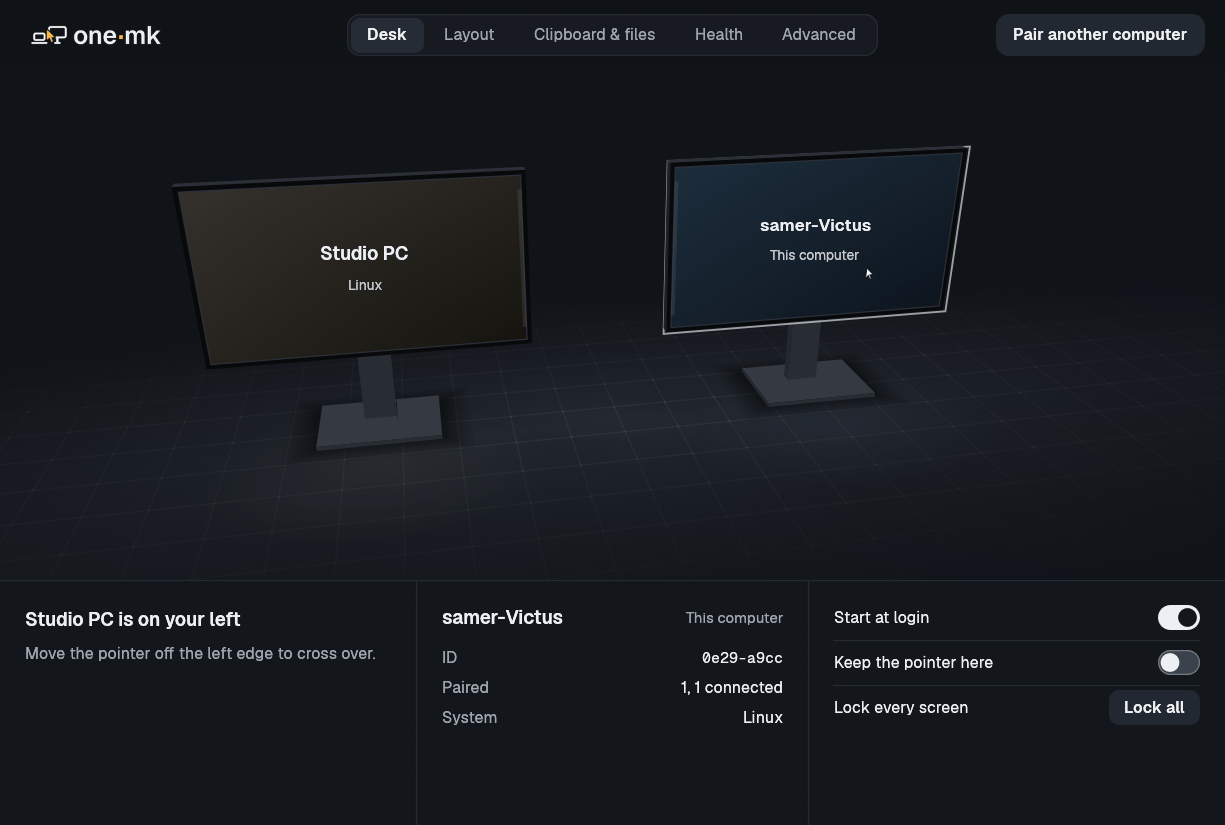
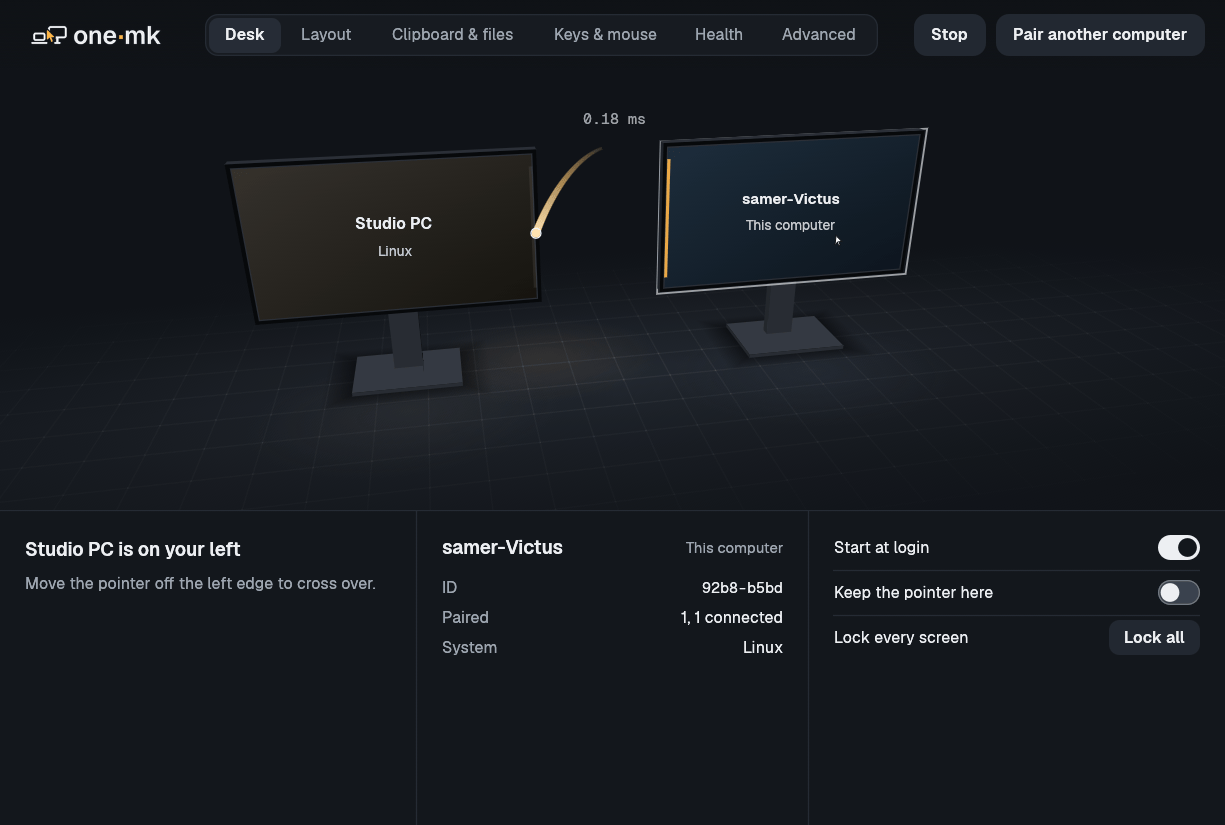
Document the latency graph and add its states to the screenshot script
README (window, status, troubleshooting), the plan row and notes, the design
review (what was found by looking at the shots and what was fixed), and
shots 70 to 82: live on two daemons, smooth, stalls, loss, slow, offline,
measuring, narrow, high density, Health (also narrow and with long names)
and a daemon from before the graph. The Desk shots re-rendered for the
taller Desk panel.

diff --git a/README.md b/README.md
@@ -142,7 +142,7 @@ See [invitation security and protocol](docs/PAIRING-INVITE.md).
 
 | Command | What it does |
 |---|---|
-| `one-mk status` | Is it running? Who is paired, online, where, and who controls whom |
+| `one-mk status` | Is it running? Who is paired, online (with `rtt 4 ms`: how long an answer takes), where, and who controls whom |
 | `one-mk takeback` | Take this computer back from the one controlling it |
 | `one-mk switch <pc\|here\|next>` | Move the mouse and keyboard to another computer without crossing an edge (`here`: back to this one) |
 | `one-mk lock-pointer on\|off\|toggle` | Keep the pointer on this computer: edges lead nowhere |
@@ -678,6 +678,17 @@ Open it from the tray ("Open one·mk…", or a left click on Linux) or run
 - drop files or folders onto a computer to send them;
 - see how fast the connection is (measured, not estimated: click a computer
   to measure again);
+- watch the connection to each computer live: a small graph of the last two
+  minutes under the selected computer on the Desk tab, and one line per
+  computer on Health. It shows the time an answer takes now, the lowest,
+  average and highest, and says **Smooth**, **Some stalls** (more than 1 in 20
+  readings over 40 ms, or any lost packet) or **Slow** (more than 1 in 20 over
+  100 ms, or 8 lost packets); amber means it is worth a look, and the word
+  says the same without colour. An offline computer says "offline" and has no graph. The
+  numbers come free from the connection itself: one-mk sends nothing extra
+  and runs no timer for it. The window asks once a second, only while a
+  graph is on screen (not on other tabs, minimised or closed), and keeps
+  120 readings per computer in memory, nothing on disk;
 - move the mouse and keyboard to a computer (**Switch to it**), send it this
   clipboard or get its clipboard, keep the pointer here and lock every
   screen;
@@ -707,7 +718,8 @@ Open it from the tray ("Open one·mk…", or a left click on Linux) or run
 - **Health:** the results of `one-mk doctor` (run when the page opens and on
   **Recheck**), each with its fix and a button to copy the command (or, for
   starting and pairing, the window's own button), plus what one-mk says
-  right now (for example a permission still to approve);
+  right now (for example a permission still to approve) and the live
+  connection to each computer;
 - **Advanced:** settings most people never change: edge rules (not crossing
   near corners, waiting at the edge, a key to hold, staying in fullscreen
   windows), keeping controlled computers awake, sleep and lock sync, gaming
@@ -795,8 +807,9 @@ one-mk bench --connect 192.168.1.20:24901   # on machine A
 
 Start with `one-mk doctor`. It checks that one-mk is running and paired,
 the port, discovery, the firewall, the desktop permission (Linux), the
-keyboard shortcuts, the pointer drawn on a computer with no mouse and the
-network, and prints a plain fix for each problem.
+keyboard shortcuts, the pointer drawn on a computer with no mouse, the
+network and how fast each connected computer answers, and prints a plain fix
+for each problem.
 It only reads: it never changes your firewall or settings, needs no root,
 and exits with status 1 if something failed.
 
@@ -832,6 +845,13 @@ and exits with status 1 if something failed.
 - **macOS.** Allow one-mk under System Settings > Privacy & Security >
   Accessibility and Input Monitoring, then start it again. (Not yet tested on
   real hardware.)
+- **The mouse stutters or lags on another computer.** Look at the graph on
+  the window's Desk or Health tab, or run `one-mk status` (`rtt 4 ms` per
+  connected computer) and `one-mk doctor` ("Connection quality"). Under about
+  40 ms is smooth. Higher, or **Some stalls** with lost packets, is the network
+  between the two computers, usually Wi-Fi: move closer to the router, use the
+  5 GHz band or a cable, and pause big downloads. `one-mk bench --connect`
+  measures the pointer's whole path.
 - **A paired computer is on the wrong side.** `one-mk layout "<name>" <side>`.
 - **The pointer won't cross part of an edge.** With an offset, only where
   the other computer's screens touch yours leads there (`one-mk status` and

diff --git a/docs/FEATURE-PLAN.md b/docs/FEATURE-PLAN.md
@@ -411,7 +411,7 @@ tests, cross-review by the other model, full validation before merging.
 | ID | Task | Author | Status |
 |---|---|---|---|
 | 5A | Clipboard history and a hotkey to paste from another computer's clipboard (must skip sensitive copies) | Codex | todo |
-| 5B | Live latency graph per computer in the window (event-driven; no polling when the window is closed) | Claude | todo |
+| 5B | Live latency graph per computer in the window (event-driven; no polling when the window is closed) | Claude | built (see 5B notes below) |
 | 5C | Broadcast input to all connected computers (explicit, visible, auto-off, no stuck keys) | Claude | todo |
 | 5D | Edge pushes where no computer sits: pointer wrap to the opposite edge, and push-toward-it layout learning | Claude | todo |
 | 5E | Keyboard layout and AltGr fix: send the typed character when layouts differ; starts after 5I (both change the key event) | Codex | blocked on 5I |
@@ -419,6 +419,37 @@ tests, cross-review by the other model, full validation before merging.
 | 5G | Auto-update from signed GitHub Releases (build on the owner's release workflow) | Codex | todo |
 | 5H | Activate local-only key remap on Windows and macOS (acknowledged handoff, no stuck keys); builds on 5I | Codex | blocked on 5I |
 | 5I | Per-device scope: key and mouse rules for ONE specific keyboard or mouse, saved on the computer the device is plugged into (owner request 2026-10-30). X11 via XI2 source ids; Windows Raw Input and macOS IOHID compile-checked only; NOT possible on GNOME/KDE/wlroots Wayland (the compositor merges devices): say so | Claude | todo |
+
+### 5B notes (live latency graph)
+
+- Data: `quinn::Connection::stats().path` (smoothed RTT, lost and sent
+  packets). The daemon reads it inside `status()` when someone asks: no timer,
+  no probe traffic, nothing between requests. The status gets one additive
+  line per connected computer, `link<TAB>id<TAB>rtt_us<TAB>lost<TAB>sent`
+  (older readers skip it; hostile values are capped or dropped). `one-mk
+  status` prints `online, rtt 4 ms`; `one-mk doctor` has a "Connection
+  quality" check (over 40 ms, or 2 % of packets lost, warns).
+- Window: it already polled the daemon every 250 ms while open, and sent an
+  update on every change. Round trips change at every look, so they are
+  left out of that comparison and go as a separate once-a-second sample,
+  asked for only while a graph is on screen (Desk tab with an online computer
+  selected, or Health): the window stamps every frame that draws one, and the
+  link stops sampling when the stamp is 3 s old (minimised, covered, other
+  tab). Closed: the process is gone. No timer in the tray or the daemon.
+- A history is 120 readings per computer on a two-minute time axis (a stretch
+  nobody looked at is a gap, not a flat line), memory only. Offline computers
+  lose theirs. `crates/app/src/rtt.rs` is the pure view-model (tested);
+  `crates/app/src/app/links.rs` draws it.
+- States: Smooth (95th percentile at most 40 ms, no loss), Some stalls (over
+  40 ms, or any lost packet), Slow (over 100 ms, or 8 lost packets), still
+  measuring (under 3 readings), offline, and "Restart one·mk" for a daemon
+  from before this (after an upgrade). Amber only for the last two warnings
+  and always with the word.
+- The Desk panel is taller (the inspector needed 58 pt more); Layout, Files and
+  the other tabs keep their height.
+- Not seen on a real screen reader, on Windows or on macOS (compile-checked
+  only); Wi-Fi loss was not produced on real hardware: the loss states were
+  drawn from scripted histories.
 
 ## Out of scope for now
 

diff --git a/docs/DESIGN-REVIEW.md b/docs/DESIGN-REVIEW.md
@@ -230,3 +230,37 @@ Contrast, sampled from the committed PNGs (most contrasting pixel against the re
 
 Not verified: real key presses into the window on Windows and macOS (only Linux/Wayland screenshots, and
 key events were simulated through the debug hooks); a screen reader speaking the keyboard.
+
+## Live latency graph (plan 5B)
+
+The graph is on the Desk tab under the selected computer (shots 70 to 78, 82) and on Health, one row per
+computer (79 to 81). Its one job: show a Wi-Fi problem as it happens, quietly. Nothing moves: the line is
+redrawn once a second, never animated, so reduced motion changes nothing.
+
+| # | screenshot | problem | fix |
+|---|---|---|---|
+| l1 | first draft of the Desk card | The inspector had no room left: the card sat below the panel's bottom edge, cut off. | The Desk panel is 58 pt taller (only on the Desk tab, once a computer is paired). The card is compact: the line on the left, the number now and its word beside it, min / avg / max below. |
+| l2 | first draft of the loss states | A lost packet was a short amber tick at the foot, where it hid behind the spike of the same moment and could not be told from a slow reading. | A thin line the full height of the graph that ends in a ring, so loss reads apart from slowness by shape, not only by colour. |
+| l3 | 82 | After an upgrade, a daemon that still runs the old version reports no round trips: the card said "Measuring…" for ever. | "Restart one·mk to see latency" (Desk) and "Restart one·mk" (Health), also in the accessible text. |
+| l4 | 70, 06 | A graph that is only seconds old fills a tenth of its width. | Kept: the time axis is fixed at two minutes so the line doesn't rescale under the eye; "Measuring…" shows until three readings exist. |
+
+Found by tests rather than by eye: a count of lost packets that goes down means another connection, so the
+history starts again (a test had it going down by accident, which cleared it); the millisecond formatter
+overflowed on the largest round trip a hostile status could carry.
+
+Colour: grey while smooth, amber for "Some stalls" and "Slow". Amber is brand-allowed for live state, and the
+word beside every line says the same, so the graph is never colour-only; "Slow" also draws the line thicker.
+
+| what | contrast |
+|---|---|
+| Graph line, grey (INK2 on raised) | 7.01:1 |
+| Graph line and word, amber (on raised / panel) | 9.84:1 / 10.24:1 |
+| Lost-packet line (60 % amber on raised) | 4.31:1 (3:1 needed) |
+| min / avg / max text (INK2 on panel) | 7.30:1 |
+
+Text equivalent (one screen-reader item per graph): "Latency to desk: 4 ms, smooth. Over the last 2 minutes:
+lowest 3 ms, average 4 ms, highest 9 ms." plus "2 packets were lost." when they were. Offline: "Latency to
+desk: offline." Computed from the same numbers as the drawing (`rtt::Summary::describe`).
+
+Not verified: a screen reader actually speaking it; Windows and macOS rendering; Wi-Fi loss on real hardware
+(the loss and slow states come from scripted histories; the live shot 70 is real loopback readings).
